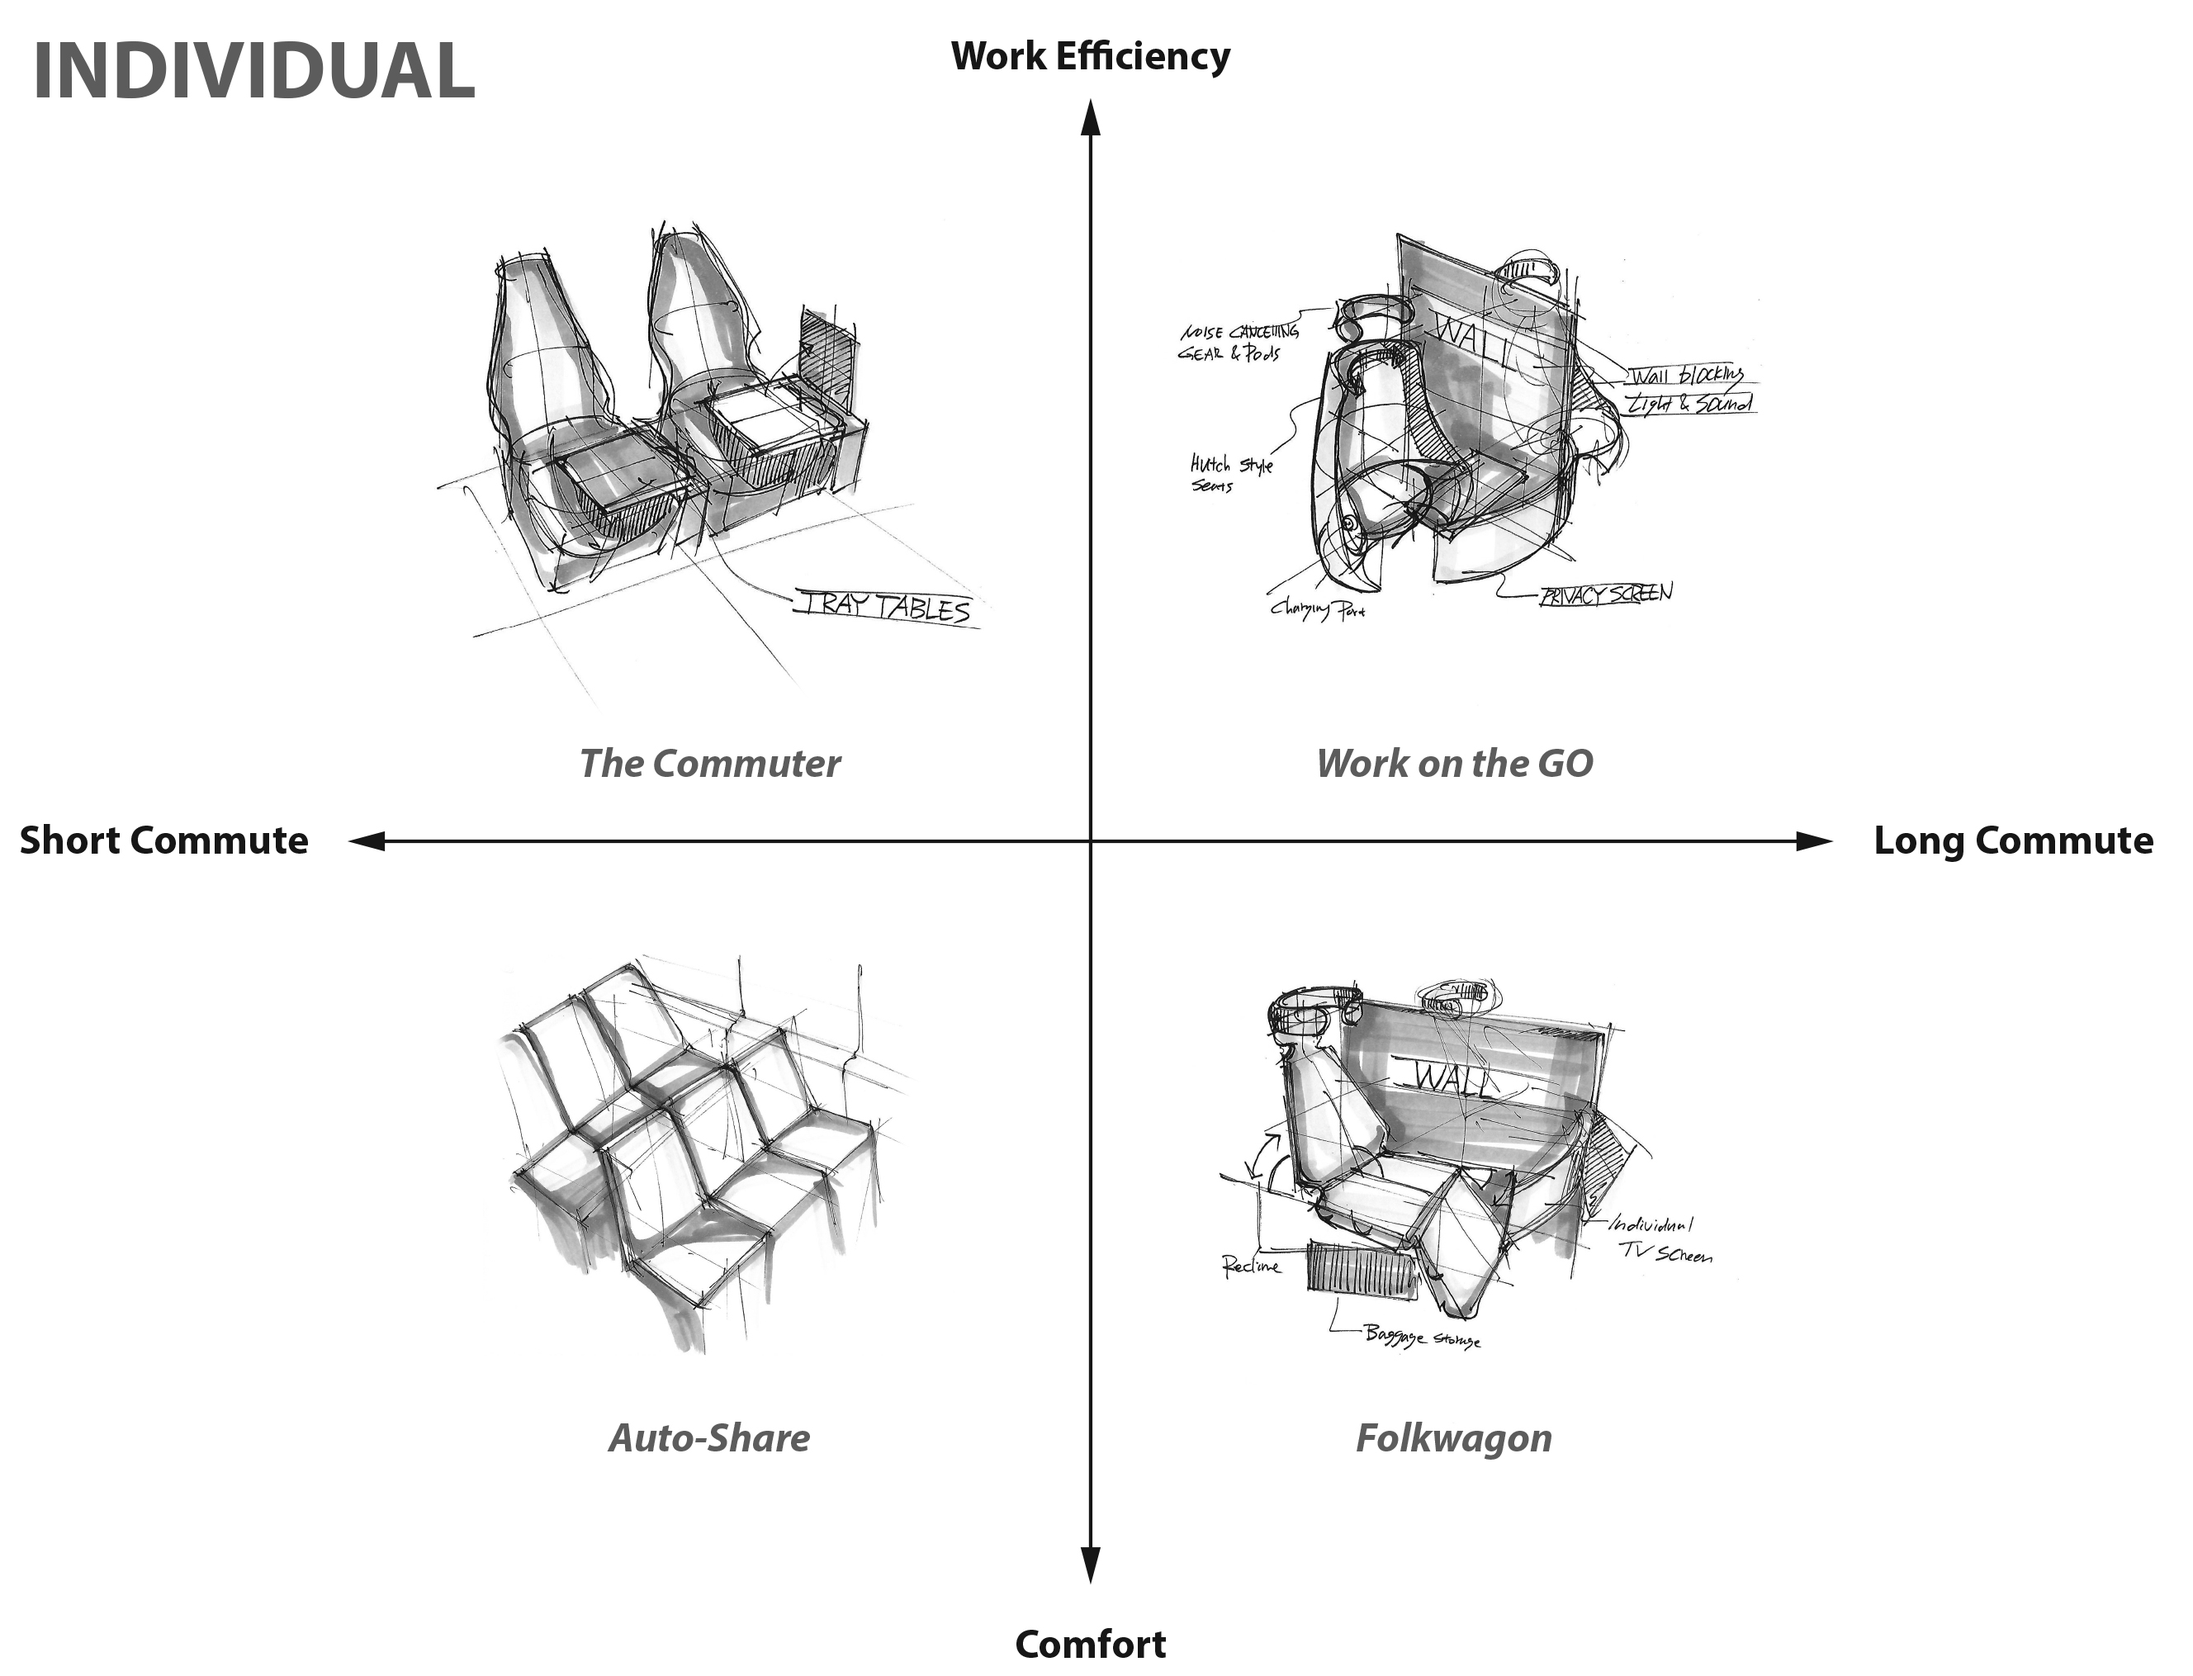
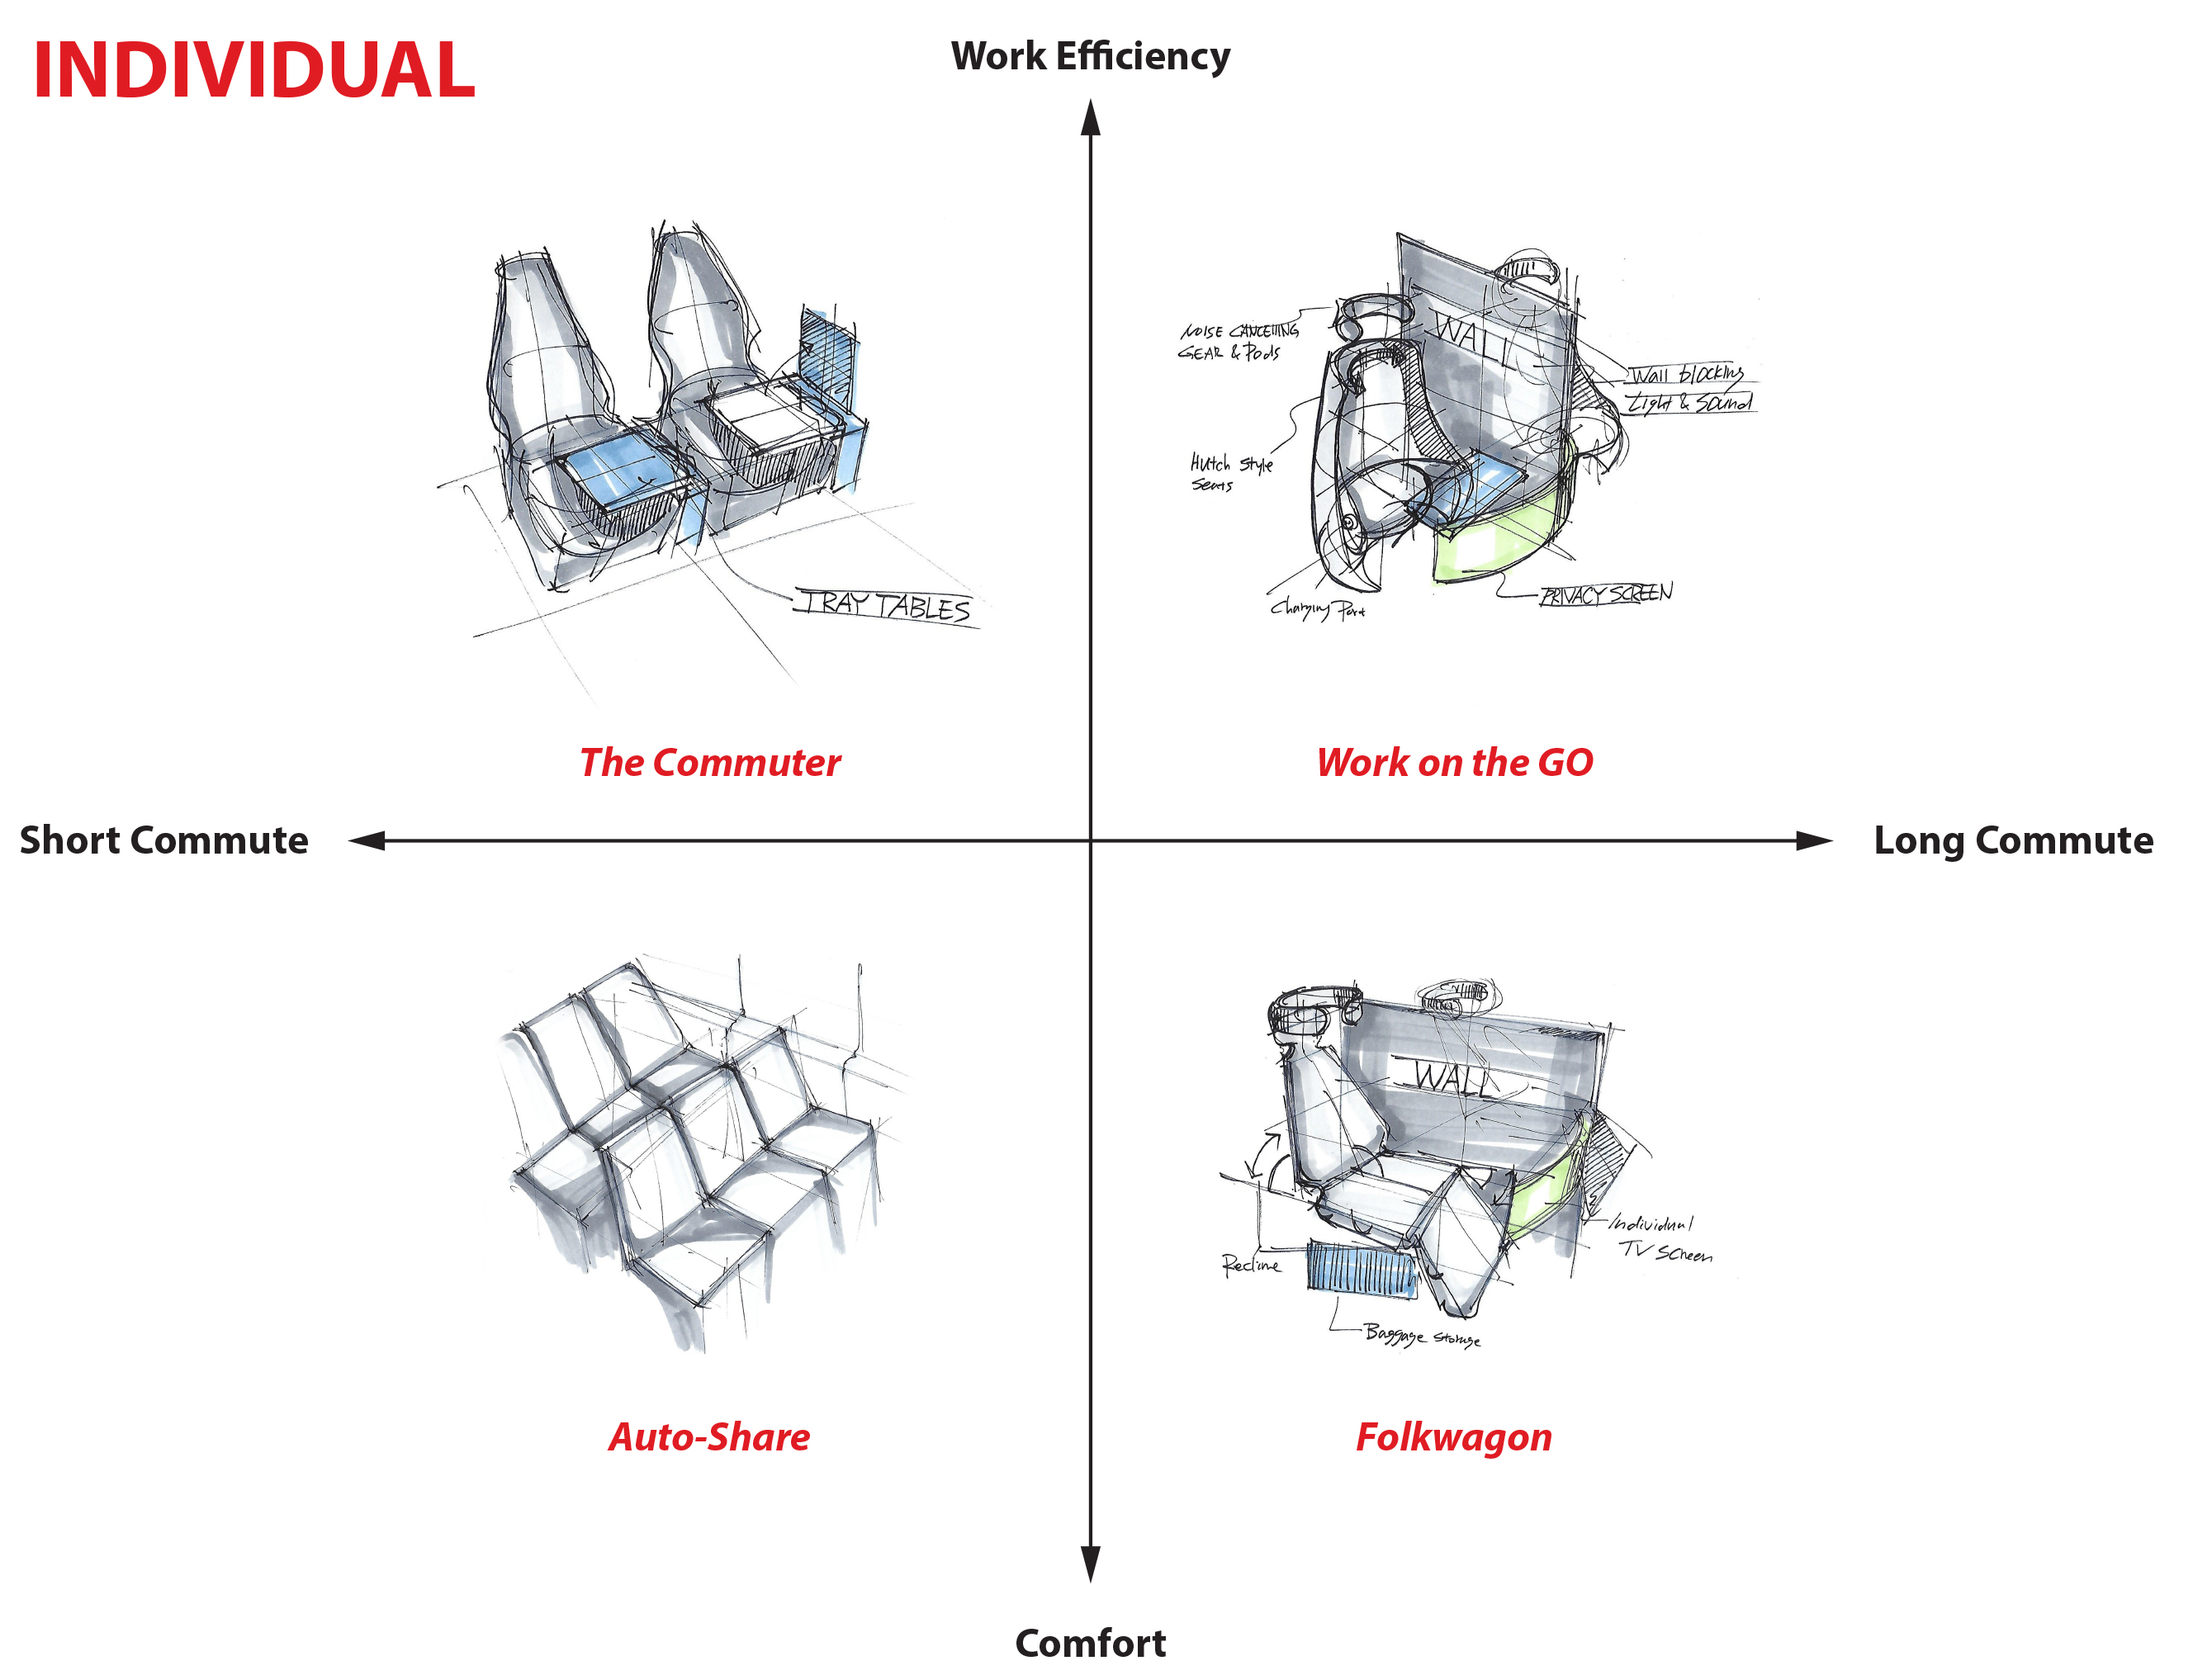
Honda_Project

diff --git a/project_Honda.html b/project_Honda.html
@@ -53,43 +53,81 @@
 									<p>Team management, user scenarios, market research, field research, prototyping (mock-ups, wireframes, 3D&nbsp;models), ergonomics, codesign activities, reports writing, client presentations
 									</p>
 									<h4>Tools</h4>
-									<p>Photoshop, Illustrator, InDesign, Codesign maketools, Solidworks, Google Workspace</p>
+									<p>Axure, Photoshop, Illustrator, InDesign, Codesign maketools, Solidworks, Google Workspace</p>
 								</div>
-								<h2>Context</h2>
-								<p>- Coming soon -</p>
-								<hr />
 								<h2>Research</h2>
-								<p>- Coming soon -</p>
+								<p>The first goal of the research phase of this project was to become familiar with the different types and levels of autonomous vehicles. Secondly, its goal was to understand the current market for car-sharing vehicles, and finally to conduct a short survey to validate the future appeal of autonomous shared vehicles among 18-34-year-olds.</p>
 								<h3>Level 4 Autonomous Vehicle</h3>
-								<p>- Coming soon -</p>
+								<p>The Society of Automotive Engineers (SAE) scale for autonomous vehicles has 6 levels. Level 0 has no autonomous features at all, and Level 5 vehicles are fully autonomous. In this project, the team was mandated to develop a new seat for level 4 autonomous vehicles. These are vehicles that are normally driven in a fully autonomous way, but for which a user can temporarily take control and drive in certain specific situations.
+									<span class="image fit"><img src="images/Honda/Honda_Levels_autonomous.jpg" alt="" /></span>
+								</p>
 								<h3>Survey</h3>
-								<p>- Coming soon -</p>
+								<p>Through the research, a survey was deployed to allow the team to get an idea of the climate towards shared autonomous vehicles and validate some of the team’s design assumptions. The survey helped to understand the comfort level of the respondents to use an autonomous self-service car service, in what context they would want to use this type of service and how they would spend their time during the commute.</p>
 								<hr />
 								<h2>Business Model Development</h2>
-								<p>- Coming soon -</p>
+								<p>In order to design a seat for the vehicle, it was essential to understand the context in which the seat would be used. A business model for the autonomous sharable vehicle therefore had to be developed.</p>
 								<h3>Exploration of the Solution Space</h3>
-								<p>- Coming soon -</p>
+								<p>To not exclude any possible solutions, we had to define the solution space of our problem. After the research phase of our project, we were able to create a matrix of three axes to create that solution space. Within these three axes, we were able to classify the existing business models of the different shared vehicle companies.
+								<br><br>The three axes that we developed were the following:
+									<ol>
+										<li>A social versus an individual commuting experience.</li>
+										<li>A vehicle based on comfort versus a work efficiency context.</li>
+										<li>A vehicle made for a short commute versus a long commute.</li>
+									</ol>
+									8 concepts were created to explore the solution space and understand its limits. Each concept fills one of the quadrants of the matrix. These concepts were not meant to be perfect. In some of the cases they can seem a bit extreme, but that is normal since their goal was to explore the limits of the solution space.
+								<span class="image fit"><img src="images/Honda/Solution_Space_Social.jpg" alt="" /></span>
+								<span class="image fit"><img src="images/Honda/Solution_Space_Individual.jpg" alt="" /></span>
+								In the end, and after discussions with the client, the team opted for a business model that favored a more social experience where trips would average from 30 minutes to about 3 hours. The vehicle would allow for both relaxation and work depending on the user's preferences.
+								</p>
 								<hr />
 								<h2>Prototyping</h2>
-								<p>- Coming soon -</p>
-								<h3>Dimensions & ergonomics</h3>
-								<p>- Coming soon -</p>
-								<h3>New Seat Features</h3>
-								<p>- Coming soon -</p>
+								<p><span class="image right"><img src="images/Honda/Honda_Pilot_Wood_Frame.jpg" alt="" /></span>
+									The seat prototyping was based on the dimensions of a 2019 Honda Pilot. After test driving the vehicle and becoming more familiar with its dimensions, the team built a volume model to be able to test configurations for the interior and its ergonomics at a 1:1 scale.
+									<br clear="all">
+								</p>
+								<h3>Seat Configuration</h3>
+								<p>The mock-up was used to test different cockpit configurations to find the one that would best fit the business model criteria while favoring the passengers' comfort. Following these tests, the team concluded that an L-shaped configuration with a pivoting driver's seat would be best suited. <br>
+									<span class="image fit"><img src="images/Honda/Sketch_Prototype_Seat_Configuration.jpg" alt="" /></span>
+								</p>
+								<h3>Seat design</h3>
+								<p>Several iterations and mock-ups were also produced for the actual seat design. These mock-ups were used to test the different characteristics of the seat, the materials used and its features. In addition, the seat was also tested with users for periods of 30 minutes to 1 hour to evaluate its comfort and improve its design.<br>
+									<span class="image fit"><img src="images/Honda/Honda_Seat_Mockup_test.jpg" alt="" /></span>
+								</p>
 								<hr />
 								<h2>Final Design</h2>
-								<p>- Coming soon -</p>
+								<p><span class="image fit"><img src="images/Honda/Honda_Seat_design.jpg" alt="" /></span>
+									The Honda Shared Autonomous Vehicle (SAV) Experience is a car-sharing service managed by a private company. Using electric autonomous level 4 vehicles, the cars can transport up to four passengers completely independently in most scenarios. The service is optimized to facilitate the movement of its users in urban areas and between cities within a maximum radius of approximately 3 hours drive. It is therefore well suited to serve both a professional clientele and to help travel with family or friends.
+								</p>
 								<h3>7 Unique Features</h3>
-								<p>- Coming soon -</p>
+								<p>The final seat concept represents a combination of seven unique features. Each of these features is intended to optimize both the operation of the shared autonomous vehicle service and the user experience within the previously described business model.
+									<br><br><b>1. Four Seats, One Design</b>
+									<br>The first key feature is that all four seats in the vehicle share one common design. This greatly reduces manufacturing costs and simplifies maintenance. If any seat in the vehicle gets damaged, it can be replaced quickly.
+									<br><br><b>2. Quick-Release Mechanism</b>
+									<br>The second key feature is the seat base’s utilization of the quick release technology currently available in the Honda Odyssey. Originally used for the Odyssey’s 2nd row middle seat, the technology has been repurposed to allow easy removal and reinstallation of the seats during maintenance.
+									<span class="image fit"><img src="images/Honda/Honda_Removable_Seat.jpg" alt="" /></span>
+									<b>3. Swivel Front Seat</b>
+									<br>The third key feature is the ability of the driver’s seat to rotate 90 degrees clockwise from the conventional driving position to face inwards while the vehicle is in autonomous mode. This allows the seat to smoothly transition to a more relaxed social position and ensure an equal riding experience for the driver.
+									<span class="image fit"><img src="images/Honda/Honda_Rotation_Frint_seat.jpg" alt="" /></span>
+									<b>4. Adjustable Bolsters and Headrest</b>
+									<br>The fourth key feature is the ability of the bottom bolsters, side bolsters, and sides of the headrest to rotate through 45 degrees of adjustment. This offers a higher level of individual customization for users and improves the seat’s ability to adapt to different body shapes and user activities.
+									<span class="image fit"><img src="images/Honda/Honda_Adjustable_Bolster_and_headrest.jpg" alt="" /></span>
+									<b>5. Contoured Seat Edge</b>
+									<br>The fifth key feature is unique convex contour of the front edge of the seat inspired by lounge furniture, instead of the typical flat or concave seat edge required for driving. The convex shape guides the user’s body to slide farther back into the seat, into a more relaxed and supported position.
+									<br><br><b>6. Mesh Backing and Supracor Base</b>
+									<br>The sixth key feature is a combination of two strategic material selections to make the seat more lightweight while retaining or even improving comfort. Mesh material was inlaid on the back of the seat, which eliminated the need for heating and cooling fixtures. Supracor, a lightweight plastic mesh, was placed on the base of the seat for continual comfort.
+									<br><br><span class="image right"><img src="images/Honda/Honda_Removable_upolstry.jpg" alt="" /></span><b>7. Removable Upholstery</b>
+									<br>The seventh and final key feature is the separation of the seat’s upholstery into individual parts that can be removed and replaced using a hidden zipper on the edge of the material. This allows for easy cleaning and repair of the upholstery. This will also help to reduce downtime during the maintenance of the car seat and improve the sustainability of the seats.
+									<br clear="all">
+								</p>
 								<hr />
 								<h2>User Scenarios</h2>
-								<p>- Coming soon -</p>
+								<p>In a complement to the design of the new SAVS features, the team developed four user scenarios to better explain them and how the user would interact with the autonomous vehicle. These scenarios also explain how the service operates and the maintenance of the seats.</p>
 								<h3>First-time & Frequent Users Scenario</h3>
-								<p>- Coming soon -</p>
+								<span class="image fit"><img src="images/Honda/Honda_01-Using Scenario.jpg" alt="" /></span>
 								<h3>Switch to Manual Driving Mode Scenario</h3>
-								<p>- Coming soon -</p>
+								<span class="image fit"><img src="images/Honda/Honda_03-Switching-Scenario.jpg" alt="" /></span>
 								<h3>Car maintenance scenario</h3>
-								<p>- Coming soon -</p>
+								<span class="image fit"><img src="images/Honda/Honda_02-Maintenance-Scenario.jpg" alt="" /></span>
 								
 							</section>
 
